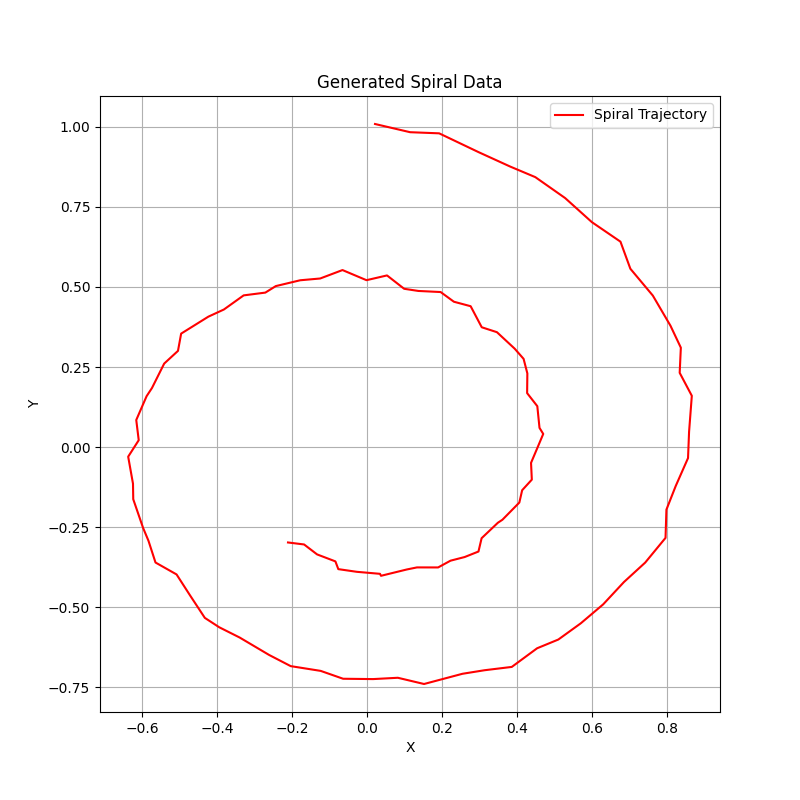
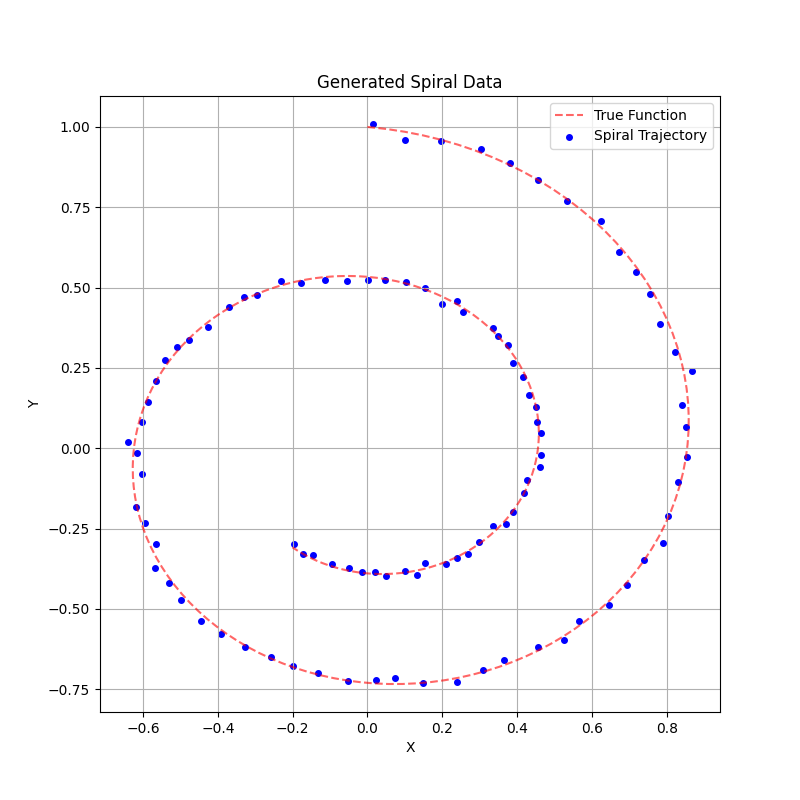
working spiral dataset
trained the spiral dataset for 5 epochs and it looks like it works, need to run for more and look at extrapolation on spiral.

diff --git a/models/neural_ode.py b/models/neural_ode.py
@@ -47,7 +47,7 @@ def train_ode(model, epochs, optimizer, criterion, t, state):
     return losses
 
 
-def plot_loss(losses):
+def plot_loss(losses, file_name):
     plt.figure(figsize=(10, 6))
     plt.plot(losses, label='Training Loss')
     plt.title('Training Loss Over Epochs')
@@ -63,14 +63,14 @@ def plot_loss(losses):
     results_dir = os.path.join(project_root, 'Results')
     os.makedirs(results_dir, exist_ok=True)
     
-    full_path = os.path.join(results_dir, "Losses.png")
+    full_path = os.path.join(results_dir, file_name)
 
     plt.savefig(full_path)
     print(f"Plot saved to: {full_path}")
 
 
-def extrapolate(model, t_train, state_train, device):
-    t_future = torch.linspace(float(t_train[-1]), 6 * torch.pi, 50).to(device)
+def extrapolate(model, t_train, state_train, device, t_max=6*torch.pi):
+    t_future = torch.linspace(float(t_train[-1]), t_max, 100).to(device)
 
     with torch.no_grad():
         # Use last known state as the new initial condition
@@ -243,3 +243,54 @@ def plot_learned_dynamics_vs_true(model, device, file_name, y_range=(-1.5, 1.5),
 
     plt.savefig(full_path)
     print(f"Plot saved to: {full_path}")
+
+#Plot spiral extrapolation
+def plot_spiral_extrapolation(t_train, state_train, state_future, file_name):
+    # Extract coordinates
+    x_train = state_train[:, 0].cpu().numpy()
+    y_train = state_train[:, 1].cpu().numpy()
+    
+    x_future = state_future[:, 0, 0].cpu().numpy()
+    y_future = state_future[:, 0, 1].cpu().numpy()
+    
+    # Generate ground truth
+    t_gt = t_train.cpu().numpy()
+    x_gt = np.sin(t_gt) * np.exp(-0.1 * t_gt)
+    y_gt = np.cos(t_gt) * np.exp(-0.1 * t_gt)
+    
+    plt.figure(figsize=(10, 10))
+    
+    # Ground truth
+    plt.plot(x_gt, y_gt, 'gray', linestyle='--', alpha=0.4, linewidth=2, label='Ground Truth')
+    
+    # Training data points
+    plt.scatter(x_train, y_train, c='red', s=40, alpha=0.7, zorder=5, label='Training Data')
+    
+    # Training region trajectory
+    plt.plot(x_train, y_train, 'green', linewidth=3, alpha=0.9, label='Training Region')
+    
+    # Extrapolation
+    plt.plot(x_future, y_future, 'blue', linewidth=3, label='Extrapolation')
+    
+    # Markers
+    plt.scatter([x_train[0]], [y_train[0]], c='green', s=150, marker='o', 
+               edgecolors='black', linewidth=2, label='Start', zorder=10)
+    plt.scatter([x_train[-1]], [y_train[-1]], c='orange', s=150, marker='s', 
+               edgecolors='black', linewidth=2, label='End of Training', zorder=10)
+    
+    plt.title("Neural ODE: Spiral Extrapolation", fontsize=14, fontweight='bold')
+    plt.xlabel("x", fontsize=12)
+    plt.ylabel("y", fontsize=12)
+    plt.legend(fontsize=10)
+    plt.grid(True, alpha=0.3)
+    plt.axis('equal')
+    
+    # Save
+    script_path = os.path.abspath(__file__)
+    script_dir = os.path.dirname(script_path)
+    project_root = os.path.dirname(script_dir)
+    results_dir = os.path.join(project_root, 'Results')
+    os.makedirs(results_dir, exist_ok=True)
+    
+    plt.savefig(os.path.join(results_dir, file_name), dpi=150, bbox_inches='tight')
+    print(f"Plot saved to: {os.path.join(results_dir, file_name)}")

diff --git a/train_neural_ode.py b/train_neural_ode.py
@@ -1,6 +1,6 @@
 import torch
-from models.neural_ode import ODEFunc, train_ode, plot_loss, extrapolate, plot_vector_field, plot_extrapolation, plot_learned_dynamics_vs_true
-from dataset.data import generate_irregular
+from models.neural_ode import ODEFunc, train_ode, plot_loss, extrapolate, plot_vector_field, plot_extrapolation, plot_learned_dynamics_vs_true, plot_spiral_extrapolation
+from dataset.data import generate_irregular, generate_spiral
 
 # Device setup (GPU if available, else CPU)
 device = torch.device("cuda" if torch.cuda.is_available() else "cpu")
@@ -8,18 +8,25 @@ print(f"Using device: {device}")
 
 # Load Data
 print("Loading Data...")
-t_train, state_train = generate_irregular(100)
+#t_train, state_train = generate_irregular(100)
+data = generate_spiral(100, t_max=10)
+y0 = torch.tensor([1.0, 0.0])
+t = torch.linspace(0, 10, 100)
 
 # Sort by time and keep state aligned
-sorted_indices = torch.argsort(t_train)
-t_train = t_train[sorted_indices]
-state_train = state_train[sorted_indices]
+# sorted_indices = torch.argsort(t_train)
+# t_train = t_train[sorted_indices]
+# state_train = state_train[sorted_indices]
 
-# Move data to device
-t_train = t_train.to(device)
-state_train = state_train.to(device)
+# # Move data to device
+# t_train = t_train.to(device)
+# state_train = state_train.to(device)
+data = data.to(device)
+y0 = y0.to(device)
+t = t.to(device)
+
 print("Data Loaded!")
-print(f"State shape: {state_train.shape}")  # Should be [100, 2]
+print(f"State shape: y{y0.shape}")  # Should be [100, 2]
 
 # Create model, optimizer and criterion
 model = ODEFunc(hidden_dim=64).to(device)
@@ -28,16 +35,18 @@ criterion = torch.nn.MSELoss()
 
 # Training
 print("\nTraining Neural ODE...")
-losses = train_ode(model, 100, optimizer, criterion, t_train, state_train)
+losses = train_ode(model, 5, optimizer, criterion, t, data)
 
 # Plotting
 print("\nGenerating plots...")
-plot_loss(losses)
+plot_loss(losses, file_name="Losses (spiral-dataset).png")
 
-t_future, state_future = extrapolate(model, t_train, state_train, device)
+t_future, state_future = extrapolate(model, t, data, device)
 
-plot_vector_field(model, file_name="Learned Vector Field (time agnostic-2nd-run).png", device=device)
+#plot_vector_field(model, file_name="Learned Vector Field (spiral-dataset).png", device=device)
 
-plot_extrapolation(t_train, state_train, t_future, state_future, "Extrapolation for Sine Wave (time agnostic-2nd-run).png", model, device)
+#plot_extrapolation(t, data, t_future, state_future, "Extrapolation for Sine Wave (spiral-dataset).png", model, device)
 
-plot_learned_dynamics_vs_true(model, device=device, file_name="Learned Dynamics (time agnostic-2nd-run).png")
+#plot_learned_dynamics_vs_true(model, device=device, file_name="Learned Dynamics (spiral-dataset).png")
+
+plot_spiral_extrapolation(t, data, state_future, file_name="Spiral Extrapolation.png")

diff --git a/dataset/data.py b/dataset/data.py
@@ -36,7 +36,10 @@ def generate_spiral(n_samples, t_max=100):
     x += np.random.normal(0, 0.01, size=t.shape)
     y += np.random.normal(0, 0.01, size=t.shape)
 
-    return np.stack([x, y], axis=1)
+    data = np.stack([x, y], axis=1)
+    data = torch.tensor(data).float()
+
+    return data
 
 
 def plot_samples(t, state, title, file_name):
@@ -73,9 +76,17 @@ def plot_samples(t, state, title, file_name):
     plt.savefig(full_path)
     print(f"Plot saved to: {full_path}")
 
-def plot(data, file_name="Sprial_Data.png", fig_size=(8, 8)):
+def plot(data, t_max, file_name="Sprial_Data.png", fig_size=(8, 8)):
+    # Generate a smooth line for sine wave
+    t_smooth = np.linspace(0, t_max, 200)
+    x_true = np.sin(t_smooth) * np.exp(-0.1 * t_smooth)
+    y_true = np.cos(t_smooth) * np.exp(-0.1 * t_smooth)
+    data_true = np.stack([x_true, y_true], axis=1)
+
+
     plt.figure(figsize=fig_size)
-    plt.plot(data[:, 0], data[:, 1], label="Spiral Trajectory", color="red")
+    plt.plot(data_true[:, 0], data_true[:, 1], label="True Function", color="red", linestyle="--", alpha=0.6)
+    plt.scatter(data[:, 0], data[:, 1], label="Spiral Trajectory", color="blue", s=16)
     plt.title("Generated Spiral Data")
     plt.xlabel("X")
     plt.ylabel("Y")
@@ -104,4 +115,4 @@ if __name__ == '__main__':
     #plot_samples(t, state, title="Test", file_name="test.png")
 
     data = generate_spiral(100, t_max=10)
-    plot(data)
+    plot(data, t_max=10)
